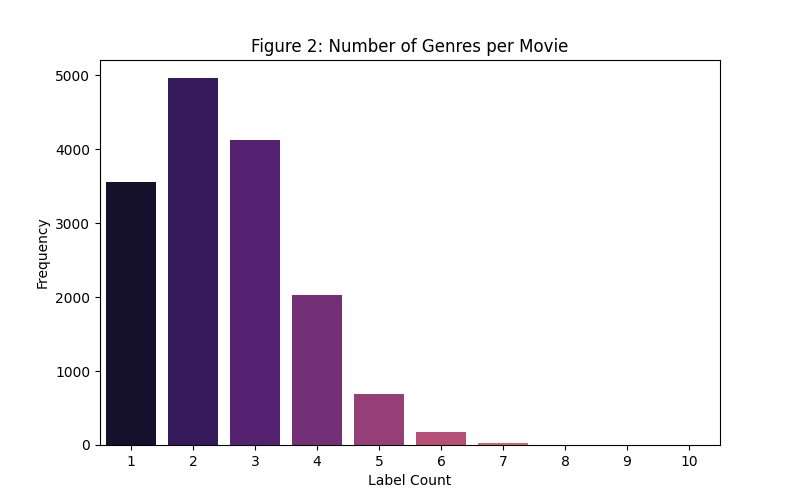
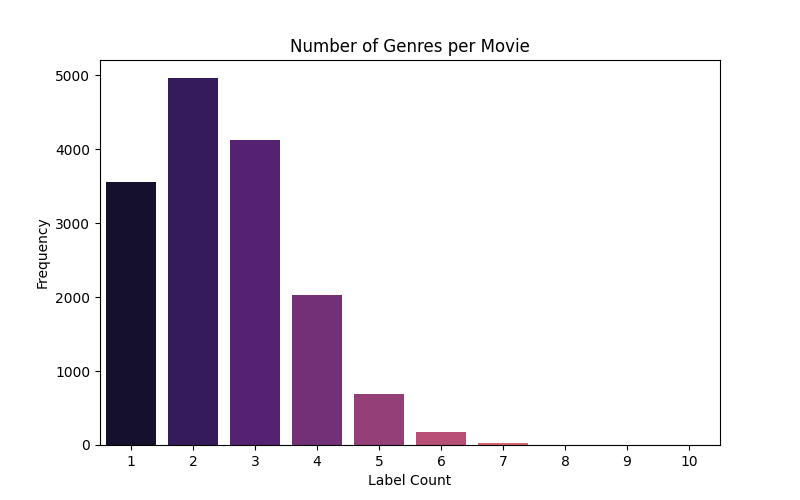
Update source file and images

Changed region(s): [[0.3125, 0.06, 0.7188, 0.12]]

diff --git a/public/multimodal/label_textual_semantic_analysis.py b/public/multimodal/label_textual_semantic_analysis.py
@@ -41,7 +41,7 @@ genre_df = pd.DataFrame(genre_counts.items(), columns=['Genre', 'Count']).sort_v
 
 plt.figure(figsize=(12, 10))
 sns.barplot(data=genre_df, x='Count', y='Genre', hue='Genre', palette='viridis', legend=False)
-plt.title('Figure 1: Full Genre Distribution (All 26+ Classes)')
+plt.title('Full Genre Distribution (All 26+ Classes)')
 plt.xlabel('Number of Samples')
 plt.show()
 
@@ -49,7 +49,7 @@ plt.show()
 df['num_genres'] = df['genres_clean'].apply(len)
 plt.figure(figsize=(8, 5))
 sns.countplot(x='num_genres', data=df, palette='magma')
-plt.title('Figure 2: Number of Genres per Movie')
+plt.title('Number of Genres per Movie')
 plt.xlabel('Label Count')
 plt.ylabel('Frequency')
 plt.show()
@@ -61,14 +61,14 @@ genre_bin_df = pd.DataFrame(genre_bin, columns=mlb.classes_)
 
 plt.figure(figsize=(14, 10))
 sns.heatmap(genre_bin_df.corr(), annot=False, cmap='coolwarm', center=0)
-plt.title('Figure 3: Genre Correlation Matrix (Co-occurrence)')
+plt.title('Genre Correlation Matrix (Co-occurrence)')
 plt.show()
 
 # --- 6. TEXT LENGTH ANALYSIS ---
 df['plot_word_count'] = df['plot_clean'].apply(lambda x: len(x.split()))
 plt.figure(figsize=(10, 5))
 sns.histplot(df['plot_word_count'], bins=50, kde=True, color='teal')
-plt.title('Figure 4: Plot Word Count Distribution')
+plt.title('Plot Word Count Distribution')
 plt.xlabel('Number of Words')
 plt.show()
 
